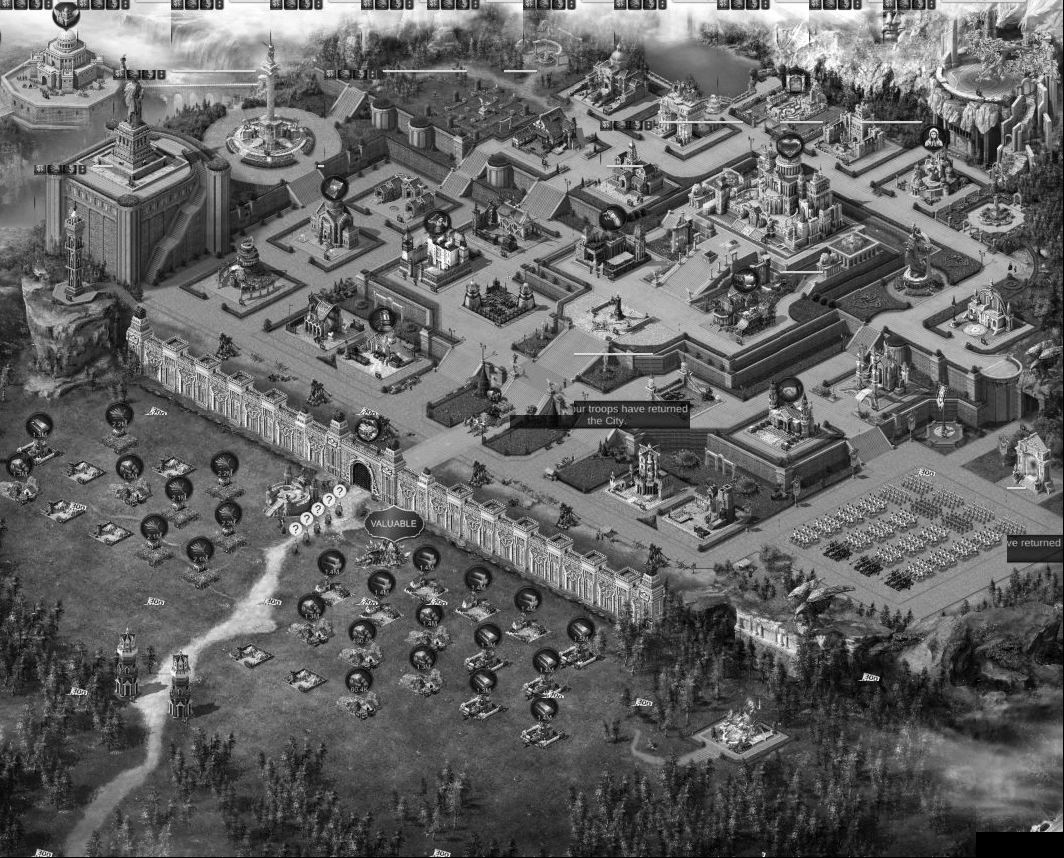
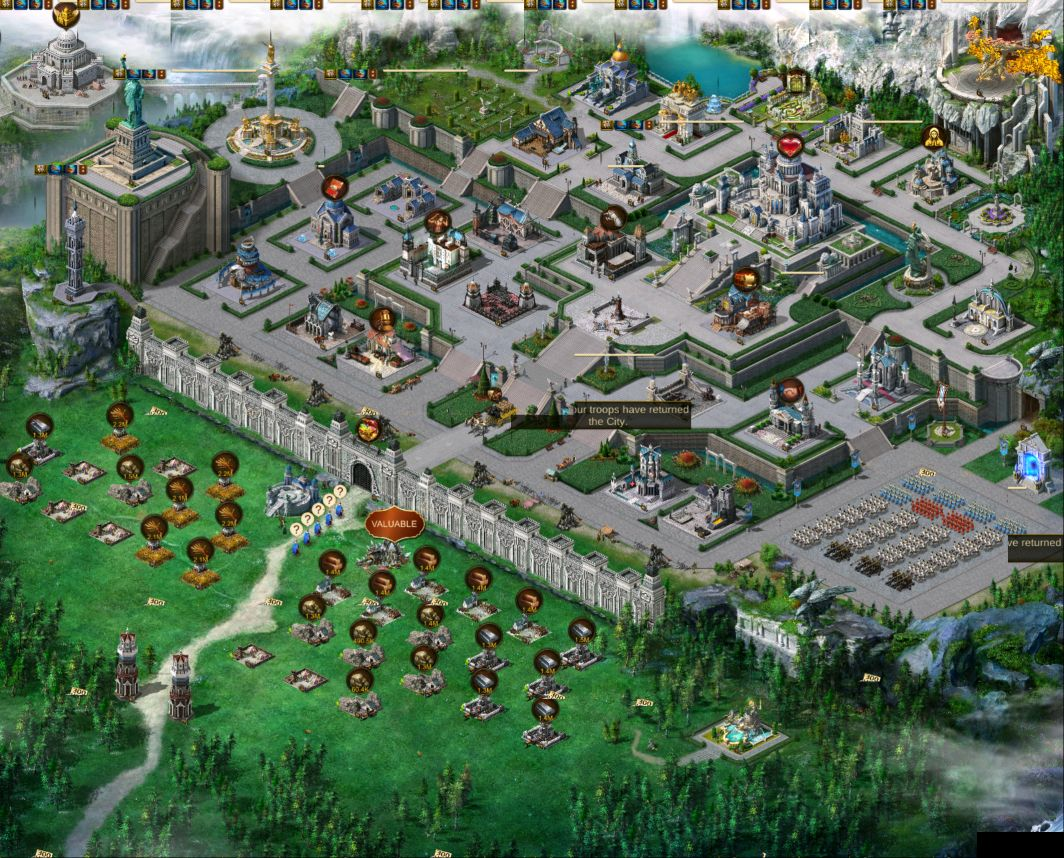
Culture maps: colour card pictures (from the PC backups, packer keeps colour); card says when a matched culture has no pins yet
Claude-Session: https://claude.ai/code/session_01VajPZrbG3eRJYsc8m1jF2Y

diff --git a/ui/pages.js b/ui/pages.js
@@ -1935,6 +1935,8 @@ function cityMapCard(serial) {
       const STATE = { found: ["Found", "ok"], pinned: ["Pinned", "ok"], seen: ["Seen", "next"], none: ["Not yet", ""] };
       root.appendChild(h("div", { class: "cmlist" }, j.buildings.map((b) => h("div", { class: "cmrow" + (b.on ? "" : " off"), title: "Needed by: " + b.duties.join(", ") + (b.on ? "" : " (switched off)") },
         h("span", { class: "cmname" }, b.name), h("span", { class: "dbadge " + STATE[b.state][1] }, STATE[b.state][0])))));
+      if (j.culture && !j.buildings.some((b) => b.state === "pinned" || b.state === "found"))
+        root.appendChild(h("p", { class: "hint" }, "Your city matched the " + j.culture.charAt(0).toUpperCase() + j.culture.slice(1) + " map. Its buildings are not pinned yet, so each one is pinned the first time a task opens it."));
       root.appendChild(h("p", { class: "hint" }, found === total && total ? "Every building the duties need is on the map." :
         "Found = reached on this city. Pinned = known from the culture map, checked on the first visit. Not yet = pinned the first time a task opens it."));
     }

diff --git a/make_cultures.py b/make_cultures.py
@@ -61,6 +61,9 @@ def pack(src, culture, out):
         im = cv2.imread(str(out / k["file"]), cv2.IMREAD_GRAYSCALE)
         X, Y = int(round(k["x"] / 2)), int(round(k["y"] / 2))
         canvas[Y:Y + im.shape[0], X:X + im.shape[1]] = im
+    col = cv2.imread(str(src / "map.png"))                 # the backup's own colour picture (same places) for the card
+    if col is not None and abs(col.shape[1] - W) <= 2 and abs(col.shape[0] - H) <= 2:
+        canvas = cv2.resize(col, (canvas.shape[1], canvas.shape[0]), interpolation=cv2.INTER_AREA)
     cv2.imwrite(str(out / "map.jpg"), canvas, [cv2.IMWRITE_JPEG_QUALITY, JPG_Q])
     m = {"culture": culture, "from": src.name, "at": meta.get("at"), "views": len(keep), "size": [W, H],
          "view": [vw, vh], "half": True, "feats": "feats.npz", "picture": "map.jpg", "picture_scale": 0.5,
